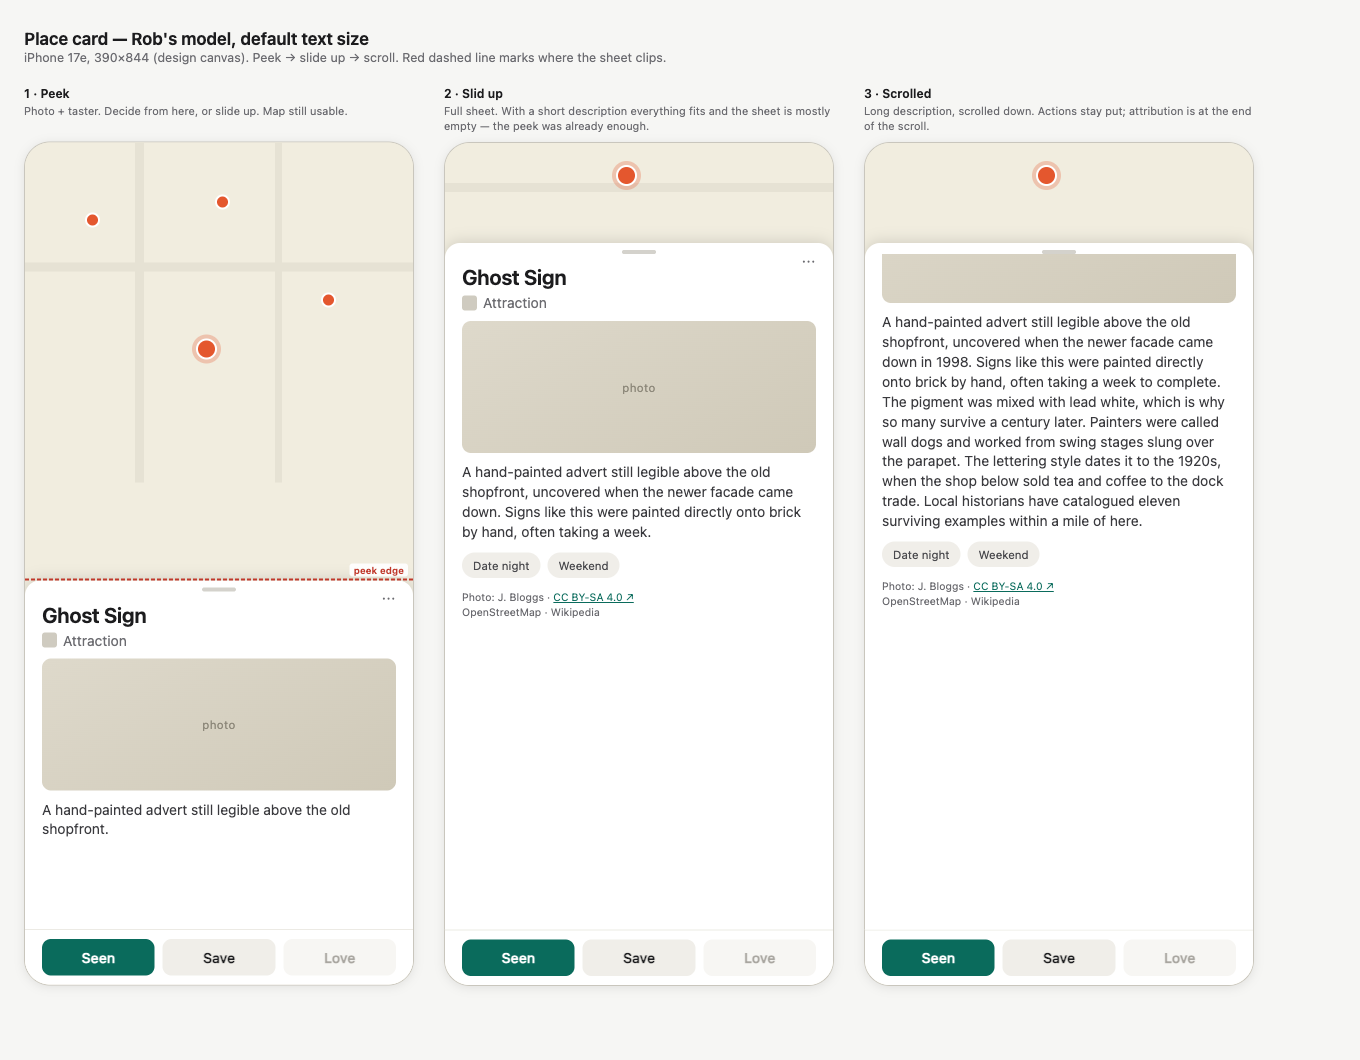
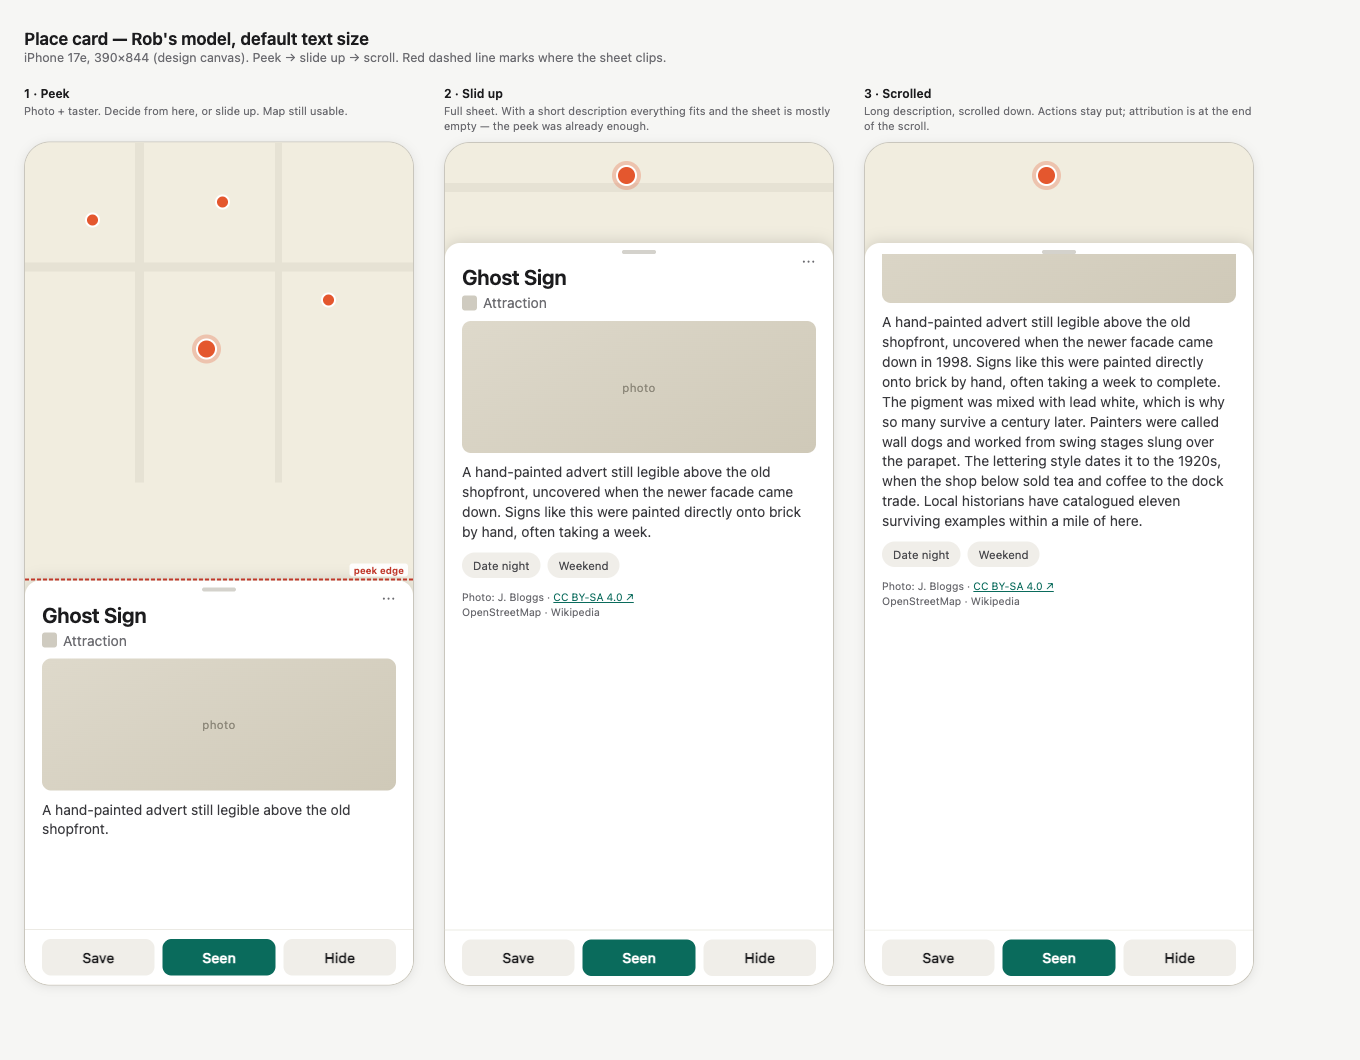
docs: WP-CARD-LAYOUT — the ruled action model
Three fixed slots that morph by visit state: Save / Seen / Hide before,
Save / Love / Un-see after.

Settles three open items. Hide stays first-class, so the two-tap-Hide
ratification item is withdrawn. The reserved-slot problem dissolves
because the slot count no longer changes. Add to list keeps the overflow.

Flags one reading for confirmation rather than assuming it: whether
'visited (not seen)' is a terminology correction or two distinct states.

Changed region(s): [[0.6485, 0.8717, 0.8338, 0.934], [0.3397, 0.8717, 0.525, 0.934], [0.0309, 0.8717, 0.2162, 0.934]]

diff --git a/docs/design/card/wf-actions.html b/docs/design/card/wf-actions.html
@@ -1,0 +1,73 @@
+<!doctype html>
+<html><head><meta charset="utf-8">
+<style>
+  :root{ --ink:#1c1c1e; --dim:#6b6b70; --accent:#0a6b5c; --pin:#E4572E; }
+  *{box-sizing:border-box; margin:0; padding:0;}
+  body{ background:#f6f6f4; font-family:-apple-system,BlinkMacSystemFont,"SF Pro Text","Helvetica Neue",Arial,sans-serif; color:var(--ink); padding:26px 24px 30px; }
+  h1{ font-size:17px; font-weight:650; margin-bottom:2px;}
+  .sub{ font-size:12.5px; color:var(--dim); margin-bottom:24px;}
+  .row{ display:flex; gap:26px; align-items:flex-start; flex-wrap:wrap;}
+  .col{ width:390px;}
+  .cap{ font-size:12.5px; font-weight:650; margin-bottom:3px;}
+  .capsub{ font-size:11px; color:var(--dim); margin-bottom:10px; line-height:1.4; min-height:30px;}
+  .bar{ border:1px solid #e0ded7; border-radius:13px; background:#fff; padding:11px 14px; display:flex; gap:9px;}
+  .btn{ flex:1; text-align:center; font-size:15px; font-weight:560; padding:12px 0; border-radius:10px; background:#f0eee9;}
+  .btn.prom{ background:var(--accent); color:#fff;}
+  .btn.love{ background:#fdeceb; color:#c0392b;}
+  .btn.warn{ background:#f6f2ea; color:#8a6d2f;}
+  .arrowrow{ display:flex; align-items:center; gap:18px; margin:22px 0 10px;}
+  .arrow{ font-size:26px; color:var(--dim);}
+  .lab{ font-size:12px; color:var(--dim);}
+  .note{ margin-top:26px; font-size:12.5px; line-height:1.6; color:#3a3a3e; max-width:840px;}
+  .note b{ color:var(--ink);}
+  .slotmap{ margin-top:26px; border-collapse:collapse; font-size:13px;}
+  .slotmap th,.slotmap td{ border:1px solid #e0ded7; padding:9px 14px; text-align:left; background:#fff;}
+  .slotmap th{ background:#f2f0ea; font-weight:650;}
+  .q{ margin-top:24px; padding:13px 16px; border-left:3px solid var(--pin); background:#fff6f3; font-size:12.5px; line-height:1.6; max-width:840px;}
+</style></head><body>
+
+<h1>Action slots — three, fixed, morphing by state</h1>
+<div class="sub">Rob's ruling, 2026-07-19. The slot count never changes; the verbs upgrade.</div>
+
+<div class="row">
+  <div class="col">
+    <div class="cap">Before it is seen</div>
+    <div class="capsub">Hide is first-class and always present here. Love is not offered yet.</div>
+    <div class="bar">
+      <div class="btn">Save</div><div class="btn prom">Seen</div><div class="btn">Hide</div>
+    </div>
+  </div>
+
+  <div style="align-self:center; padding-top:38px;">
+    <div class="arrow">→</div>
+    <div class="lab">tap Seen</div>
+  </div>
+
+  <div class="col">
+    <div class="cap">After it is seen</div>
+    <div class="capsub">Slot 2 upgrades Seen → Love. Slot 3 becomes Un-see. Hide is gone: a seen place cannot be hidden.</div>
+    <div class="bar">
+      <div class="btn">Save</div><div class="btn love">Love</div><div class="btn warn">Un-see</div>
+    </div>
+  </div>
+</div>
+
+<table class="slotmap">
+  <tr><th>Slot</th><th>Before seen</th><th>After seen</th><th>Why</th></tr>
+  <tr><td>1</td><td>Save</td><td>Save</td><td>Independent of visit state. Never moves.</td></tr>
+  <tr><td>2</td><td><b>Seen</b> (prominent)</td><td><b>Love</b></td><td>The verb upgrades once the fact is recorded.</td></tr>
+  <tr><td>3</td><td><b>Hide</b></td><td><b>Un-see</b></td><td>Hide is only meaningful before you have been.</td></tr>
+</table>
+
+<div class="note">
+<b>Three consequences.</b><br>
+1 · <b>The reserved-slot problem disappears.</b> An earlier draft proposed reserving an empty cell for Love so the row would not re-flow under the user's thumb between finger-down and the database write returning. With a fixed three slots there is nothing to reserve — the slot is stable and only its label changes.<br>
+2 · <b>The two-tap Hide proposal is rejected.</b> An earlier draft moved Hide behind an overflow menu to fit five buttons. Three slots fit comfortably, so Hide stays one tap.<br>
+3 · <b>Add to list keeps its overflow home.</b> It is the only action not in the ruled set, and the list chips already open the list picker.
+</div>
+
+<div class="q">
+<b>One reading to confirm.</b> Rob wrote <i>"Love only comes after visited (not seen)"</i>. Read here as a terminology correction — the underlying fact is <i>visited</i>, and the button that records it is currently labelled <i>Seen</i>. If instead <i>visited</i> and <i>seen</i> are meant to be two distinct states, slot 2 needs a third step and this drawing is wrong.
+</div>
+
+</body></html>

diff --git a/docs/design/card/wf-default.html b/docs/design/card/wf-default.html
@@ -72,7 +72,7 @@
         </div>
         <div style="flex:1"></div>
         <div class="acts">
-          <div class="btn prom">Seen</div><div class="btn">Save</div><div class="btn ghost">Love</div>
+          <div class="btn">Save</div><div class="btn prom">Seen</div><div class="btn">Hide</div>
         </div>
       </div>
       <div class="fold" style="bottom:404px"></div>
@@ -103,7 +103,7 @@
         </div>
         </div>
         <div class="acts">
-          <div class="btn prom">Seen</div><div class="btn">Save</div><div class="btn ghost">Love</div>
+          <div class="btn">Save</div><div class="btn prom">Seen</div><div class="btn">Hide</div>
         </div>
       </div>
     </div>
@@ -130,7 +130,7 @@
         <div class="cut"></div>
         </div>
         <div class="acts">
-          <div class="btn prom">Seen</div><div class="btn">Save</div><div class="btn ghost">Love</div>
+          <div class="btn">Save</div><div class="btn prom">Seen</div><div class="btn">Hide</div>
         </div>
       </div>
     </div>

diff --git a/docs/design/card/wf-ax.html b/docs/design/card/wf-ax.html
@@ -69,7 +69,7 @@
         </div>
         <div style="flex:1"></div>
         <div class="acts">
-          <div class="btn prom">Seen</div><div class="btn">Save</div><div class="btn ghost">Love</div>
+          <div class="btn">Save</div><div class="btn prom">Seen</div><div class="btn">Hide</div>
         </div>
       </div>
       <div class="fold" style="bottom:486px"></div>
@@ -99,7 +99,7 @@
           <div class="cut"></div>
         </div>
         <div class="acts">
-          <div class="btn prom">Seen</div><div class="btn">Save</div><div class="btn ghost">Love</div>
+          <div class="btn">Save</div><div class="btn prom">Seen</div><div class="btn">Hide</div>
         </div>
       </div>
     </div>

diff --git a/docs/superpowers/plans/2026-07-19-wp-card-layout.md b/docs/superpowers/plans/2026-07-19-wp-card-layout.md
@@ -51,7 +51,35 @@ Apple publishes no minimum supported screen size. The HIG's only relevant guidan
 
 Sources are committed beside the images (`docs/design/card/wf-default.html`, `wf-ax.html`) so they can be re-rendered and edited rather than redrawn.
 
-## 4. What the pictures show
+## 4. The actions — ruled
+
+Rob, 2026-07-19, verbatim:
+
+> "where's hide? Hide is a first class action. Love only comes after visited (not seen). So - Save, Seen (change to loved on seen) Hide."
+
+> "Also on seen, change hide to unsee or something - you can't hide a seen item."
+
+![Action slots](../../design/card/card-actions.png)
+
+**Three slots. The count never changes; the verbs upgrade.**
+
+| Slot | Before seen | After seen | Why |
+|---|---|---|---|
+| 1 | Save | Save | Independent of visit state. Never moves. |
+| 2 | **Seen** (prominent) | **Love** | The verb upgrades once the fact is recorded. |
+| 3 | **Hide** | **Un-see** | Hide is only meaningful before you have been. |
+
+This settles three open items from the earlier drafts:
+
+- **Hide is first-class.** The proposal to move it behind an overflow — and with it the "Hide becomes two taps" ratification item — is rejected. Three slots fit comfortably.
+- **The reserved-slot problem dissolves.** An earlier draft proposed reserving an empty cell for Love so the row would not re-flow under the thumb between finger-down and the write returning. With a fixed three slots there is nothing to reserve: the slot is stable and only its label changes.
+- **Add to list keeps its overflow home.** It is the only action outside the ruled set, and the list chips already open the picker.
+
+**One reading to confirm rather than assume.** "Love only comes after visited (not seen)" is read here as a terminology correction — the underlying fact is *visited*, and the button that records it is currently labelled *Seen*. If instead *visited* and *seen* are meant as two distinct states, slot 2 needs a third step and the drawing above is wrong.
+
+**Data-layer note.** "You can't hide a seen item" is a rule about what the card offers, not a migration. Existing hidden-and-visited rows are legacy composition in the fade matrix and are unchanged by this.
+
+## 5. What the pictures show
 
 **Peek carries the decision.** Name, type, photo, one taster line. On the evidence of the default-size render, that is enough to decide "worth a look" without expanding. The map stays usable behind it.
 
@@ -61,15 +89,15 @@ Sources are committed beside the images (`docs/design/card/wf-default.html`, `wf
 
 This finding was first derived on the wrong canvas, and it survived the correction — but it was re-derived, not carried over. On the corrected canvas it is a closer call than it was.
 
-**Actions are drawn pinned in all four proposal panels.** That is one option, shown so it can be compared, not a conclusion. §6 prices it.
+**Actions are drawn pinned in all four proposal panels.** That is one option, shown so it can be compared, not a conclusion. §7 prices it.
 
-## 5. What the pictures cannot settle
+## 6. What the pictures cannot settle
 
 Panel 3 of the accessibility render approximates today's card. **It is not a measurement**, and in the wireframe the actions look reachable — which contradicts the UI test, where `scrollToExistence` is required for Save, Seen and Love at AXXXL.
 
 One of those is wrong and a mockup cannot say which. **Measure on a device before any decision that depends on it.** The first draft of this design built its entire argument on the test evidence without checking it against a rendering, which is how it reached a conclusion Rob rejected.
 
-## 6. Where the actions live — the open question
+## 7. Where the actions live — the open question
 
 Rob's list has six elements. Actions are not among them. So their placement is genuinely open, and the wireframes show only one answer.
 
@@ -79,15 +107,15 @@ Rob's list has six elements. Actions are not among them. So their placement is g
 
 **C. In peek only.** Actions live in the peek state, and the slid-up state is for reading. Matches "decide from the toast, expand to read". Costs: a user who expands to read then wants to act must collapse or scroll back.
 
-**Recommendation: A, conditional on the device measurement in §5.** If the measurement shows today's in-flow actions are reachable at AXXXL, B becomes defensible and the case for A weakens to "one order instead of two".
+**Recommendation: A, conditional on the device measurement in §6.** If the measurement shows today's in-flow actions are reachable at AXXXL, B becomes defensible and the case for A weakens to "one order instead of two".
 
-## 7. Constraints any option must answer
+## 8. Constraints any option must answer
 
 Carried from the research pass. These do not depend on which option wins.
 
 - **VoiceOver order.** A pinned bar reads last by default. Needs `accessibilitySortPriority`, or the accessibility story contradicts the visual one.
 - **Action completion is silent.** Every tap awaits a DB write with no optimistic update and no announcement. Pinning makes the latency more visible; it does not cause it.
-- **Love appears only after Seen**, so the row grows from three buttons to four. If actions are pinned, reserve Love's slot from first render — otherwise the button under the thumb can change identity between finger-down and write-return.
+- ~~Love's reserved slot~~ — resolved by the three-slot morph in §4. The row no longer grows.
 - **The photo is a hard 180pt** that does not scale with Dynamic Type, so it shrinks proportionally as text grows. The wireframes draw it scaled; the code does not do this today.
 - **The late-photo jump is block insertion, not byte arrival.** Bytes load into a fixed box with a spinner. The jump happens when `card.photo` flips nil to non-nil and the whole slot appears in an open card.
 - **Attribution has no outbound link.** The licence URL renders as inert plain text. This is the one item of Rob's original spec that never shipped. Making a data-supplied URL tappable touches `privacy.md`'s plain-text commitment and needs his ruling, not a layout sign-off.
@@ -95,17 +123,17 @@ Carried from the research pass. These do not depend on which option wins.
 - **No contrast test exists.** Any coloured text this design adds — the attribution link — is the first place the committed WCAG AA 4.5:1 is visibly on the line.
 - **`altNames` is decoded and never rendered.** Dead data either way.
 
-## 8. Test delta
+## 9. Test delta
 
 Unchanged from the analysis pass, and it only bites if option A wins.
 
 - Pinning inverts `chips < actions < attribution` in `testPlaceCardOverhaulRendersHierarchyAndHideAction`. That is a change to a hierarchy Rob signed off and needs saying, not absorbing.
-- Any move of Hide behind an overflow breaks `hideButton.exists` / `.tap()` in the same test, and turns a one-tap action into two.
+- The Hide-behind-overflow change is withdrawn (§4), so `hideButton.exists` / `.tap()` are unaffected. The test will need a post-seen case for the Un-see label.
 - The order test does not include `place-card.add-to-list` at all. That is how it drifted in unnoticed after #231, and it should be added regardless of which option wins.
 
 The six content elements keep their order in every option. Only the actions move.
 
-## 9. What was withdrawn from the first draft
+## 10. What was withdrawn from the first draft
 
 Recorded so it is not re-derived.
 
